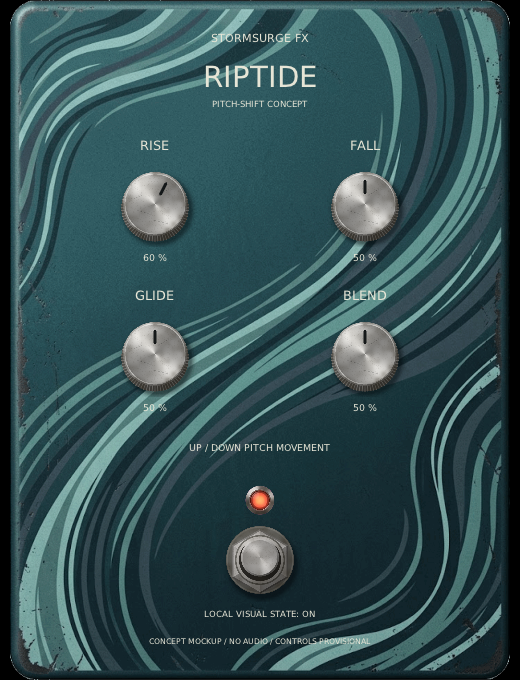
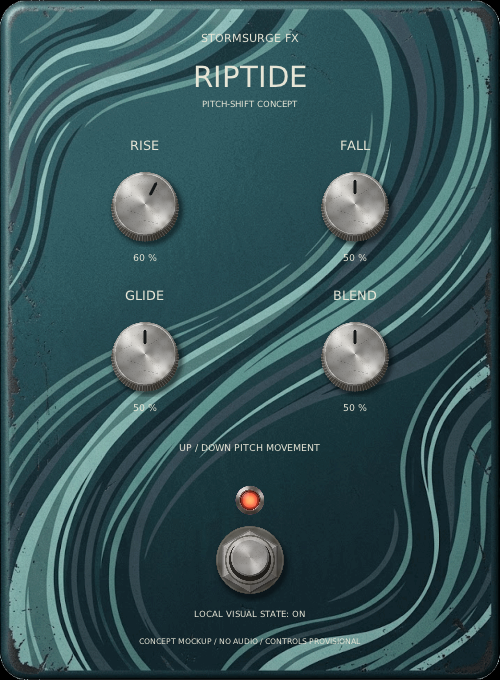
Narrow the Riptide concept mockup

diff --git a/tests/FuturePedalMockup.cpp b/tests/FuturePedalMockup.cpp
@@ -21,20 +21,26 @@ using namespace stormsurge;
 
 namespace
 {
-constexpr float Width = 520, Height = 680;
+constexpr float Width = 520, RiptideWidth = 500, Height = 680;
 constexpr std::array<float, 4> KnobX{155, 365, 155, 365};
 constexpr std::array<float, 4> KnobY{205, 205, 355, 355};
 enum class Pedal { Whitecap, Riptide };
 Pedal selectedPedal = Pedal::Whitecap;
 
+float widthFor(Pedal pedal)
+{
+    return pedal == Pedal::Riptide ? RiptideWidth : Width;
+}
+
 class FuturePedalMockup final : public UI
 {
   public:
     explicit FuturePedalMockup(Pedal type)
-        : UI(520, 680), pedal(type), lightText(type == Pedal::Riptide)
+        : UI(static_cast<uint32_t>(widthFor(type)), 680), pedal(type),
+          lightText(type == Pedal::Riptide)
     {
         loadSharedResources();
-        setGeometryConstraints(390, 510, true);
+        setGeometryConstraints(390, pedal == Pedal::Riptide ? 530 : 510, true);
         if (pedal == Pedal::Whitecap)
             enclosure =
                 createImageFromMemory(whitecapEnclosurePng, sizeof(whitecapEnclosurePng), 0);
@@ -90,23 +96,25 @@ class FuturePedalMockup final : public UI
     {
         glPixelStorei(GL_PACK_ALIGNMENT, 1);
         const float factor = drawingScale();
-        translate((getWidth() - Width * factor) * 0.5f, (getHeight() - Height * factor) * 0.5f);
+        translate((getWidth() - canvasWidth() * factor) * 0.5f,
+                  (getHeight() - Height * factor) * 0.5f);
         scale(factor, factor);
         drawEnclosure();
-        caption(260, 39, "STORMSURGE FX", 13);
-        caption(260, 77, pedal == Pedal::Whitecap ? "WHITECAP" : "RIPTIDE", 34);
-        caption(260, 105,
+        caption(controlX(260), 39, "STORMSURGE FX", 13);
+        caption(controlX(260), 77, pedal == Pedal::Whitecap ? "WHITECAP" : "RIPTIDE", 34);
+        caption(controlX(260), 105,
                 pedal == Pedal::Whitecap ? "CHORUS / VIBRATO CONCEPT" : "PITCH-SHIFT CONCEPT", 10);
         for (unsigned i = 0; i < values.size(); ++i)
             drawKnob(i);
         if (pedal == Pedal::Whitecap)
             drawModeToggle();
         else
-            caption(260, 448, "UP / DOWN PITCH MOVEMENT", 11);
-        drawImage(enabled ? ledOn : ledOff, 245, 485, 30, 30);
-        drawImage(footMaterial, 218, 518, 84, 84);
-        caption(260, 615, enabled ? "LOCAL VISUAL STATE: ON" : "LOCAL VISUAL STATE: OFF", 10);
-        caption(260, 642, "CONCEPT MOCKUP / NO AUDIO / CONTROLS PROVISIONAL", 9);
+            caption(controlX(260), 448, "UP / DOWN PITCH MOVEMENT", 11);
+        drawImage(enabled ? ledOn : ledOff, controlX(245), 485, 30, 30);
+        drawImage(footMaterial, controlX(218), 518, 84, 84);
+        caption(controlX(260), 615, enabled ? "LOCAL VISUAL STATE: ON" : "LOCAL VISUAL STATE: OFF",
+                10);
+        caption(controlX(260), 642, "CONCEPT MOCKUP / NO AUDIO / CONTROLS PROVISIONAL", 9);
     }
 
     bool onMouse(const MouseEvent &event) override
@@ -121,19 +129,19 @@ class FuturePedalMockup final : public UI
         dragging = -1;
         const auto point = pedalPoint(event.pos);
         for (unsigned i = 0; i < values.size(); ++i) {
-            if (distanceSquared(point, KnobX[i], KnobY[i]) <= 42 * 42) {
+            if (distanceSquared(point, controlX(KnobX[i]), KnobY[i]) <= 42 * 42) {
                 dragging = static_cast<int>(i);
                 lastY = point.getY();
                 return true;
             }
         }
-        if (distanceSquared(point, 260, 560) <= 42 * 42) {
+        if (distanceSquared(point, controlX(260), 560) <= 42 * 42) {
             enabled = !enabled;
             repaint();
             return true;
         }
-        if (pedal == Pedal::Whitecap && point.getX() >= 224 && point.getX() <= 296 &&
-            point.getY() >= 418 && point.getY() <= 477) {
+        if (pedal == Pedal::Whitecap && point.getX() >= controlX(224) &&
+            point.getX() <= controlX(296) && point.getY() >= 418 && point.getY() <= 477) {
             vibrato = !vibrato;
             repaint();
             return true;
@@ -158,7 +166,7 @@ class FuturePedalMockup final : public UI
     {
         const auto point = pedalPoint(event.pos);
         for (unsigned i = 0; i < values.size(); ++i) {
-            if (distanceSquared(point, KnobX[i], KnobY[i]) <= 42 * 42) {
+            if (distanceSquared(point, controlX(KnobX[i]), KnobY[i]) <= 42 * 42) {
                 const float step = event.mod & kModifierShift ? 0.002f : 0.02f;
                 values[i] = std::clamp(values[i] + static_cast<float>(event.delta.getY()) * step,
                                        0.0f, 1.0f);
@@ -170,19 +178,26 @@ class FuturePedalMockup final : public UI
     }
 
   private:
-    float drawingScale() const { return std::min(getWidth() / Width, getHeight() / Height); }
+    float canvasWidth() const { return widthFor(pedal); }
+
+    float controlX(float x) const { return x + (canvasWidth() - Width) * 0.5f; }
+
+    float drawingScale() const
+    {
+        return std::min(getWidth() / canvasWidth(), getHeight() / Height);
+    }
 
     Point<double> pedalPoint(const Point<double> &point) const
     {
         const float factor = drawingScale();
-        return {(point.getX() - (getWidth() - Width * factor) * 0.5) / factor,
+        return {(point.getX() - (getWidth() - canvasWidth() * factor) * 0.5) / factor,
                 (point.getY() - (getHeight() - Height * factor) * 0.5) / factor};
     }
 
     Point<double> windowPoint(float x, float y) const
     {
         const float factor = drawingScale();
-        return {x * factor + (getWidth() - Width * factor) * 0.5,
+        return {controlX(x) * factor + (getWidth() - canvasWidth() * factor) * 0.5,
                 y * factor + (getHeight() - Height * factor) * 0.5};
     }
 
@@ -215,8 +230,10 @@ class FuturePedalMockup final : public UI
         const auto size = enclosure.getSize();
         const float imageWidth = static_cast<float>(size.getWidth());
         const float imageHeight = static_cast<float>(size.getHeight());
-        const float targetWidth = Height * imageWidth / imageHeight;
-        drawImage(enclosure, (Width - targetWidth) * 0.5f, 0, targetWidth, Height);
+        const float targetWidth = std::min(Height * imageWidth / imageHeight, canvasWidth());
+        const float targetHeight = targetWidth * imageHeight / imageWidth;
+        drawImage(enclosure, (canvasWidth() - targetWidth) * 0.5f, (Height - targetHeight) * 0.5f,
+                  targetWidth, targetHeight);
     }
 
     void drawKnob(unsigned index)
@@ -224,7 +241,7 @@ class FuturePedalMockup final : public UI
         static constexpr const char *whitecapLabels[]{"RATE", "DEPTH", "MIX", "WIDTH"};
         static constexpr const char *riptideLabels[]{"RISE", "FALL", "GLIDE", "BLEND"};
         const auto &labels = pedal == Pedal::Whitecap ? whitecapLabels : riptideLabels;
-        const float x = KnobX[index], y = KnobY[index];
+        const float x = controlX(KnobX[index]), y = KnobY[index];
         caption(x, y - 59, labels[index], 15);
         drawImage(knobMaterial, x - 42, y - 42, 84, 84);
         const float angle = (-135 + values[index] * 270) * 3.14159265f / 180;
@@ -242,10 +259,10 @@ class FuturePedalMockup final : public UI
 
     void drawModeToggle()
     {
-        caption(194, 448, "CHORUS", 10);
-        caption(326, 448, "VIBRATO", 10);
+        caption(controlX(194), 448, "CHORUS", 10);
+        caption(controlX(326), 448, "VIBRATO", 10);
         const auto &material = vibrato ? toggleRight : toggleLeft;
-        drawImage(material, vibrato ? 235 : 224, 418, 72, 59);
+        drawImage(material, controlX(vibrato ? 235 : 224), 418, 72, 59);
     }
 
     const Pedal pedal;
@@ -294,8 +311,10 @@ int main(int argc, char **argv)
                       nullptr);
     editor.setWindowTitle(selectedPedal == Pedal::Whitecap ? "Whitecap concept / no audio"
                                                            : "Riptide concept / no audio");
+    const uint32_t minimumWidth = 390;
+    const uint32_t minimumHeight = selectedPedal == Pedal::Riptide ? 530 : 510;
     if (minimumSize)
-        mockup->setSize(390, 510);
+        mockup->setSize(minimumWidth, minimumHeight);
     editor.setWindowVisible(true);
     editor.focus();
     if (!mockup->exerciseControls()) {
@@ -305,8 +324,9 @@ int main(int argc, char **argv)
     uint width = 0, height = 0;
     bool aspect = false;
     editor.getGeometryConstraints(width, height, aspect);
-    if (width != 390 || height != 510 || !aspect ||
-        (minimumSize && (editor.getWidth() != 390 || editor.getHeight() != 510))) {
+    if (width != minimumWidth || height != minimumHeight || !aspect ||
+        (minimumSize &&
+         (editor.getWidth() != minimumWidth || editor.getHeight() != minimumHeight))) {
         std::fprintf(stderr, "FAIL: concept mockup geometry\n");
         return 1;
     }

diff --git a/docs/future-pedal-mockups.md b/docs/future-pedal-mockups.md
@@ -27,8 +27,9 @@ build/linux-debug/future_pedal_mockup riptide --view
 
 The mockups need a display and OpenGL context. Without `--view`, each mode checks
 that its artwork loads, exercises local knob/footswitch behavior, checks geometry,
-renders 30 frames and exits. `--small` repeats at the 390x510 minimum size. All
-state is local to the mockup; it is not saved.
+renders 30 frames and exits. `--small` repeats at the minimum size: 390x510 for
+Whitecap and 390x530 for the slightly narrower Riptide face. All state is local to
+the mockup; it is not saved.
 
 See [artwork provenance](../assets/runtime/FUTURE-PEDALS-NOTICE.md). The prepared
 images appear in this concept harness and Whitecap's VST3 editor, not in Undertow or
